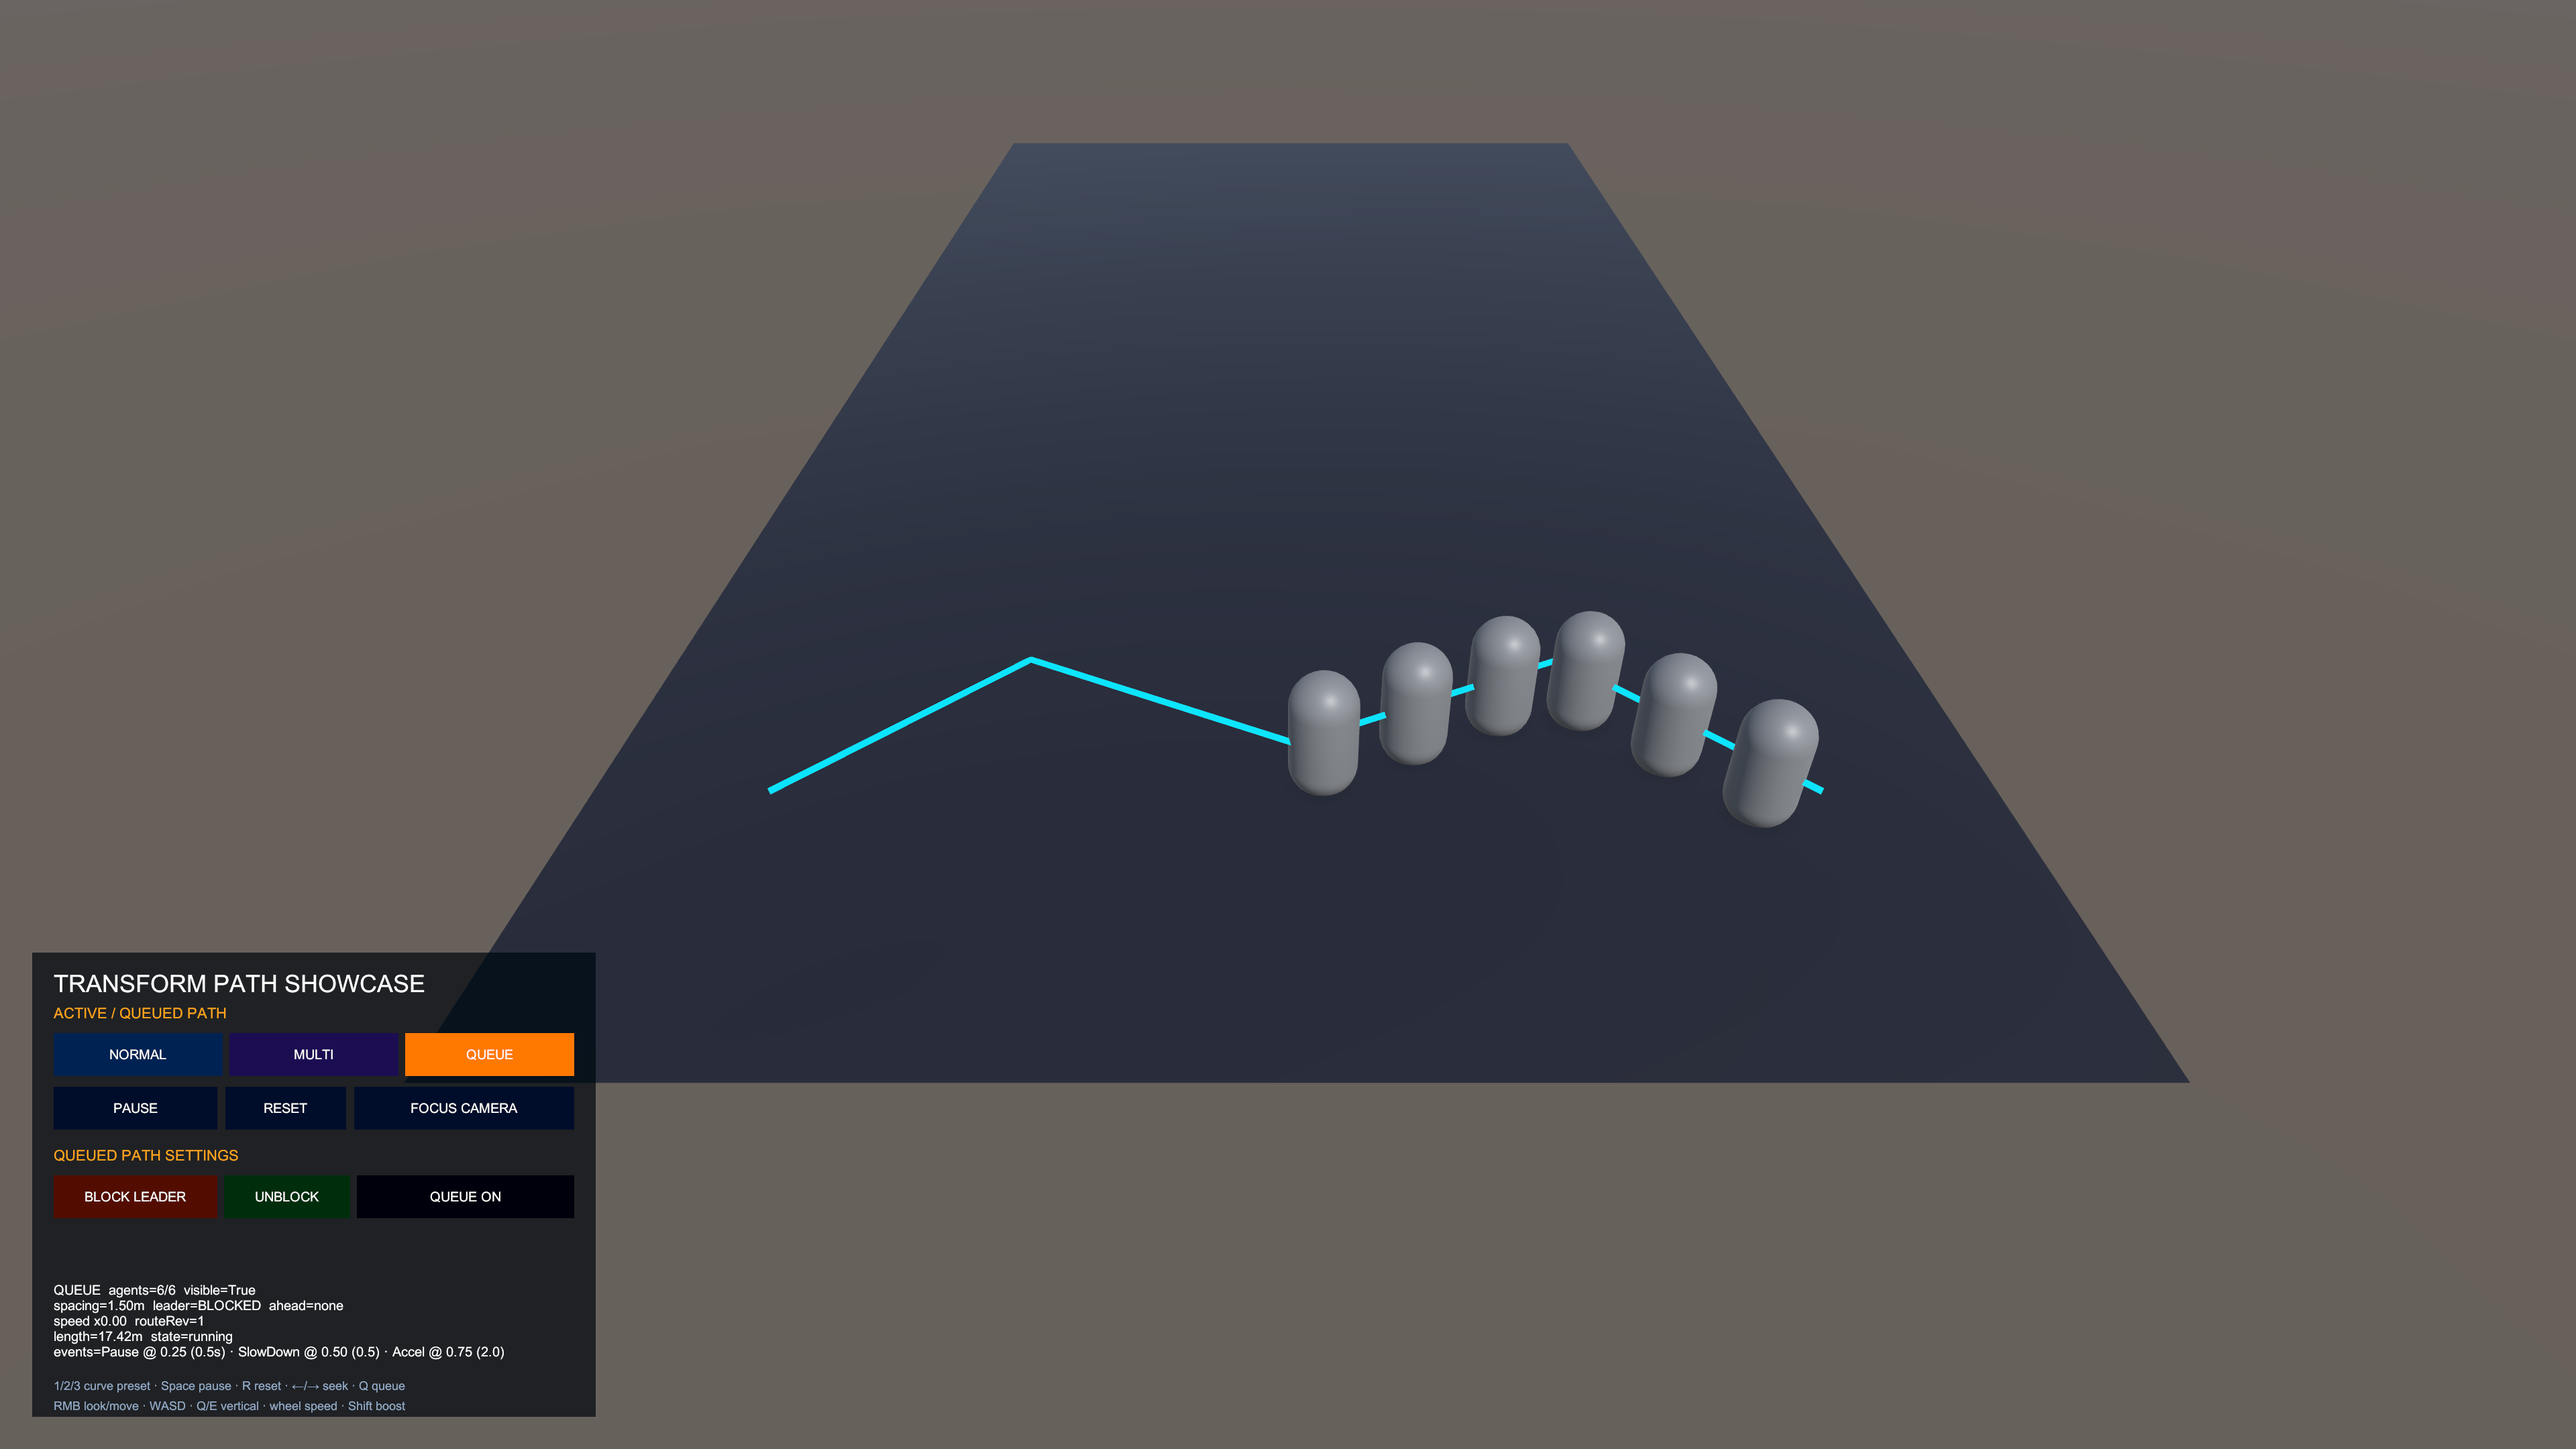
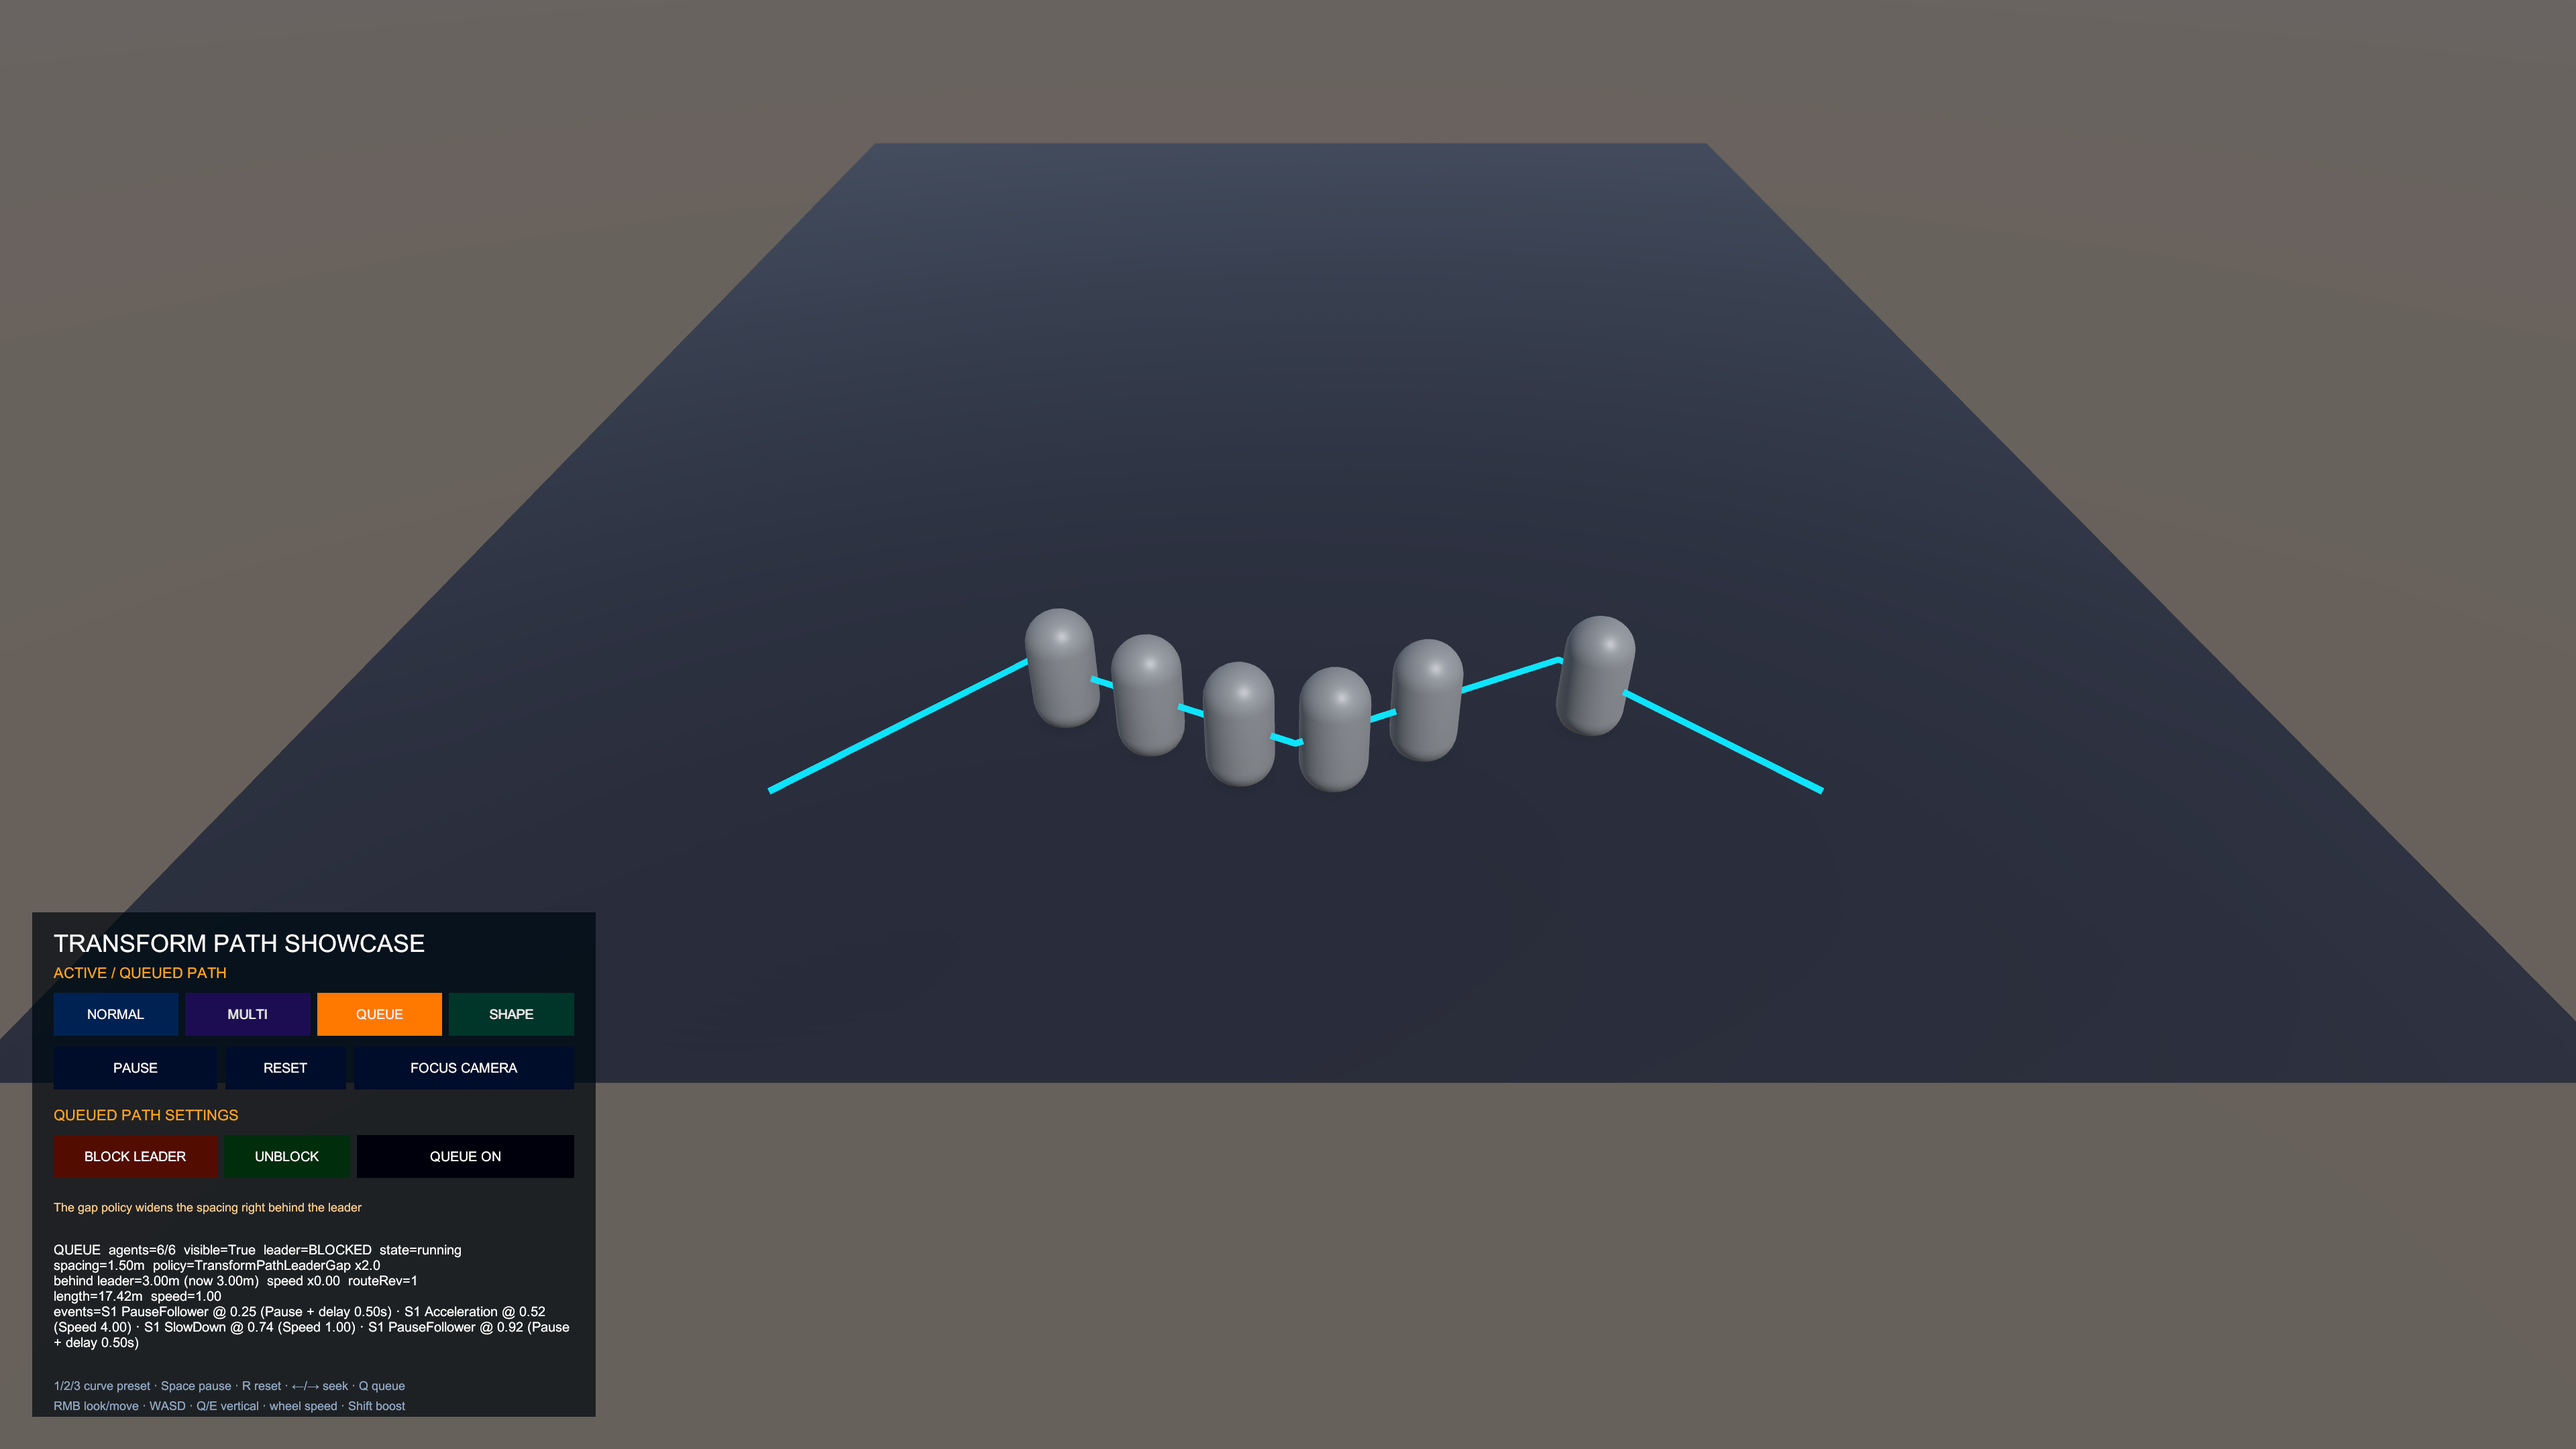
TransformPath 샘플 스크린샷 10장을 다시 찍고 캡션을 맞춤
Shape 레인과 간격 정책이 들어간 샘플 씬으로 Play Mode Game view 8장(3840×2160)을 Editor Pause와 프레임 진행으로 다시 찍었습니다. Scene View 2장은 AI Navigation overlay 없이 Retina 해상도로 1096×1238을 잘랐습니다. Queue 캡션에 선두 뒤 간격 정책과 BLOCK LEADER를, 경로 캡션에 SplineApproximating을, Editor 설명에 모양 미리보기를 넣었습니다.

Changed region(s): [[0.0, 0.0931, 0.4062, 0.9306], [0.5938, 0.0931, 1.0, 0.7444], [0.375, 0.4032, 0.7188, 0.5894]]

diff --git a/ToyProject/Assets/_TransformPath/README.md b/ToyProject/Assets/_TransformPath/README.md
@@ -124,8 +124,8 @@ _member.StartQueuedPlayback(_manager, PathPlaybackRequest.Single(_path));
 `Blocked`·`Resumed`·`SpeedChanged`로 대기 상태를, `QueueInvalidated`로 경로 무효와 Manager 해제를 알립니다. `QueueInvalidated`가 오면 그 경로의 재생은 일시정지 중이어도 멈추고, 이미 다른 경로를 재생하는 Follower는 그대로 둡니다. 경로의 이동 설정·이벤트·구간 구성이 바뀌면 이전 설정으로 재생 중인 멤버만 `ManagerReleased`로 빠지고, 새 설정으로 다시 시작한 멤버는 남습니다. 기하만 바뀌면 멤버가 Queue 단계에서 새 기하를 먼저 받으므로, 경로가 매 프레임 바뀌어도 Queue가 움직입니다. 재생이 끝나거나 멈춘 멤버는 다음 프레임에 Queue에서 빠집니다. Queue는 같은 경로 위의 진행 거리만 봅니다. Loop 이음매의 간격, 물리 충돌, 교차 경로 회피는 처리하지 않습니다.
 
 <p align="center">
-  <img src="Docs/Images/feature-queue-running.png" alt="Queue 레인이 간격을 유지하며 이동하는 화면" width="48%">
-  <img src="Docs/Images/feature-queue-blocked.png" alt="선두를 막아 뒤따르는 Agent가 대기하는 화면" width="48%">
+  <img src="Docs/Images/feature-queue-running.png" alt="Queue 레인이 간격을 유지하며 이동하고 선두 바로 뒤만 간격 정책으로 두 배 떨어진 화면" width="48%">
+  <img src="Docs/Images/feature-queue-blocked.png" alt="BLOCK LEADER로 선두를 막아 뒤따르는 Agent가 간격을 두고 대기하는 화면" width="48%">
 </p>
 
 ## 이벤트
@@ -145,11 +145,11 @@ _member.StartQueuedPlayback(_manager, PathPlaybackRequest.Single(_path));
 
 ## 기능
 
-**경로:** 왼쪽은 `Linear`, 오른쪽은 곡선 경로를 끝 부근으로 Seek한 화면입니다.
+**경로:** 왼쪽은 `Linear`, 오른쪽은 `SplineApproximating` 경로를 끝 부근으로 Seek한 화면입니다.
 
 <p align="center">
   <img src="Docs/Images/feature-path-linear.png" alt="Linear 경로 재생 화면" width="48%">
-  <img src="Docs/Images/feature-playback-seek.png" alt="곡선 경로에서 Seek한 화면" width="48%">
+  <img src="Docs/Images/feature-playback-seek.png" alt="SplineApproximating 경로에서 끝 부근으로 Seek한 화면" width="48%">
 </p>
 
 **연결 경로:** `MultiPathData`가 여러 `PathData`를 구간별 이동 설정과 함께 잇습니다. 전체와 구간 진행률을 각각 Seek할 수 있습니다.
@@ -159,7 +159,7 @@ _member.StartQueuedPlayback(_manager, PathPlaybackRequest.Single(_path));
   <img src="Docs/Images/feature-multipath-seek.png" alt="MultiPath Seek 화면" width="48%">
 </p>
 
-**Editor 작성:** 제어점은 Scene View에서, 이벤트는 Inspector에서 편집합니다. 연결점과 그룹 동기화는 Undo/Redo를 지원합니다. `MultiPathData` Inspector의 **Apply Drawing Sizes To All Paths**와 **Assign Distinct Path Colors**로 구간 경로의 미리보기 모양을 맞춥니다.
+**Editor 작성:** 제어점은 Scene View에서, 이벤트는 Inspector에서 편집합니다. 연결점과 그룹 동기화는 Undo/Redo를 지원합니다. `MultiPathData` Inspector의 **Apply Drawing Sizes To All Paths**와 **Assign Distinct Path Colors**로 구간 경로의 미리보기 모양을 맞춥니다. `PathShapeProvider`는 샘플한 모양을 Scene View에 그립니다(오른쪽 화면 가장자리의 원).
 
 <p align="center">
   <img src="Docs/Images/feature-editor-authoring.png" alt="Scene View의 경로 작성 화면" width="48%">
